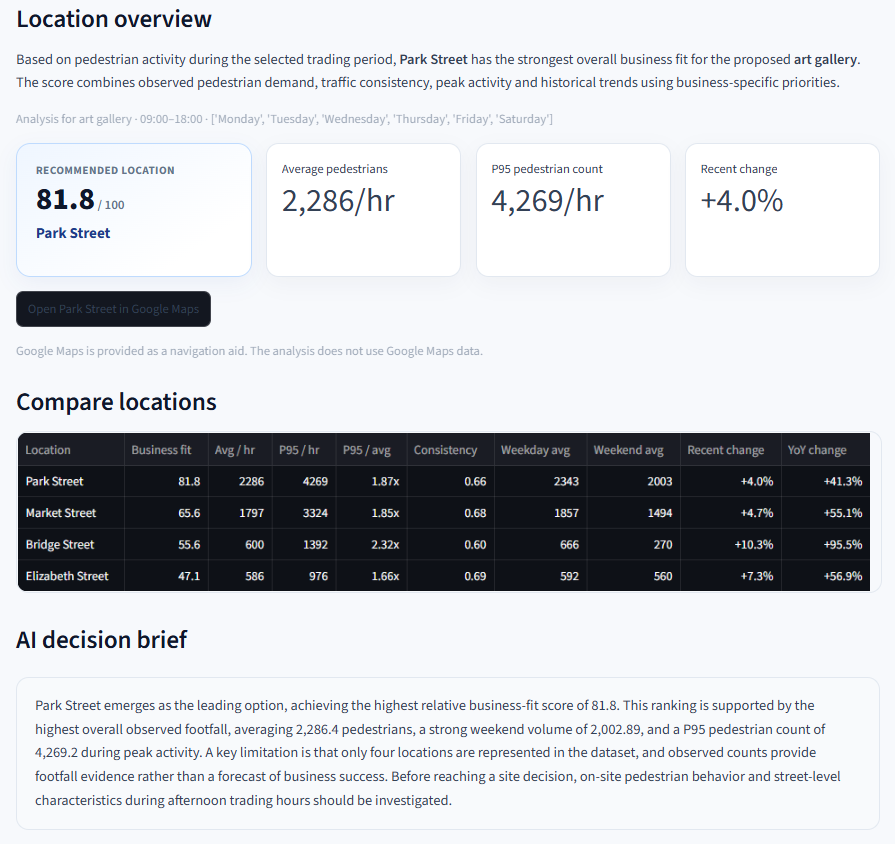
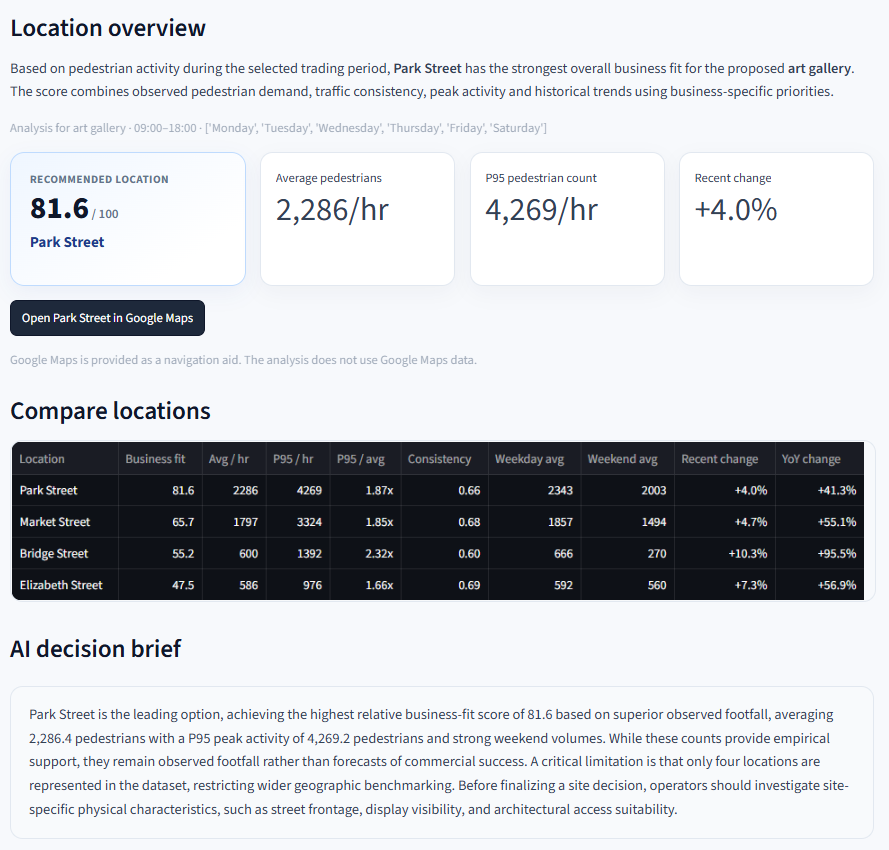
updated UI and added new response screenshot

diff --git a/app.py b/app.py
@@ -121,6 +121,26 @@ st.markdown(
         margin: 0;
         line-height: 1.65;
     }
+
+    /* Google Maps link button */
+    div[data-testid="stLinkButton"] a {
+        background-color: #0f172a !important;
+        color: #ffffff !important;
+        border: 1px solid #0f172a !important;
+    }
+
+    div[data-testid="stLinkButton"] a p {
+        color: #ffffff !important;
+    }
+
+    div[data-testid="stLinkButton"] a:hover {
+        background-color: #1e293b !important;
+        color: #ffffff !important;
+    }
+
+    div[data-testid="stLinkButton"] a:hover p {
+        color: #ffffff !important;
+    }
     </style>
     """,
     unsafe_allow_html=True,
